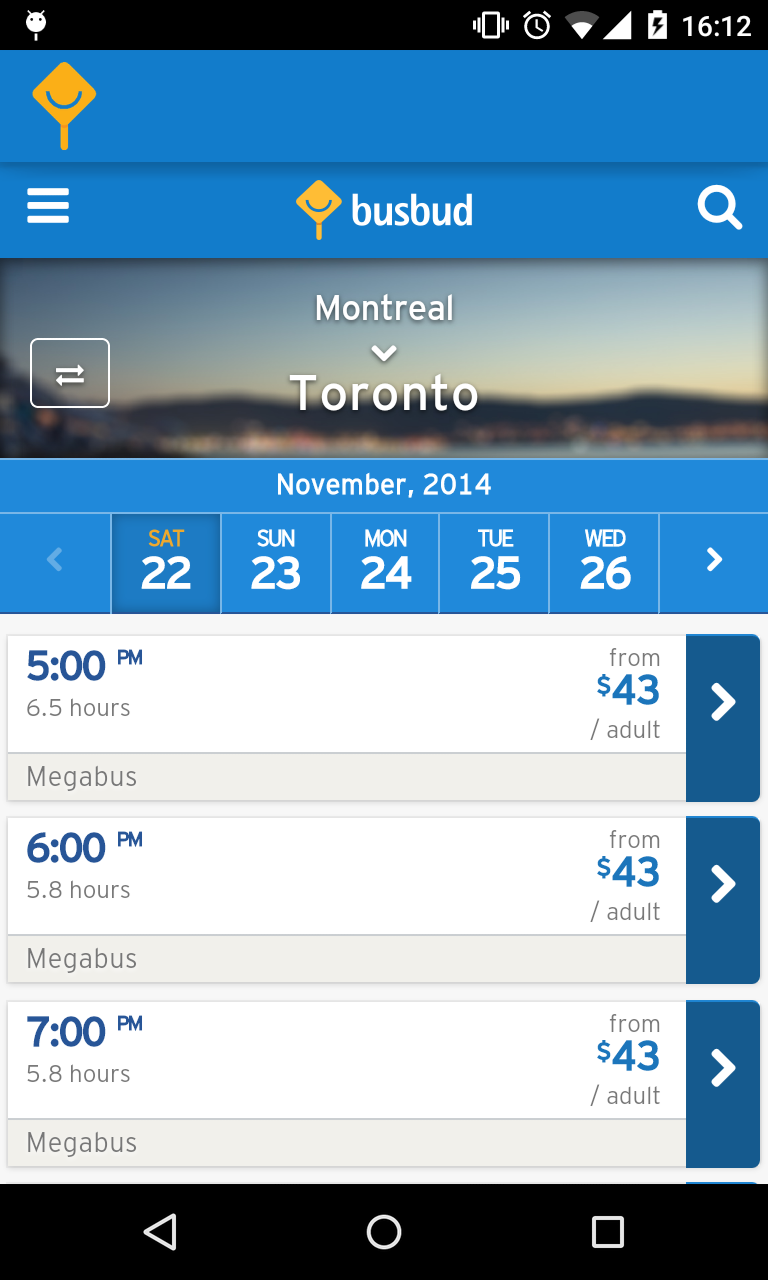
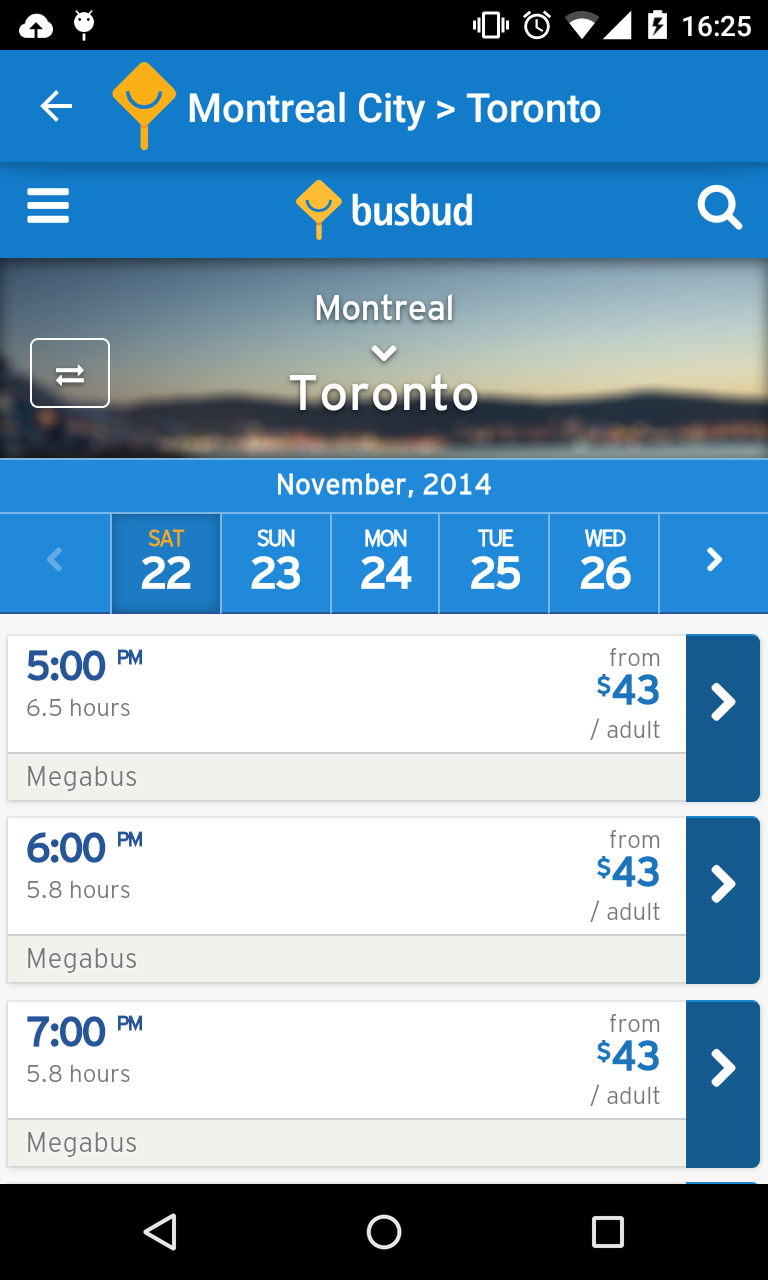
[BusBud] Improve navigation on WebView

diff --git a/app/src/main/java/jbm/busbud/util/SingleFragmentActivity.java b/app/src/main/java/jbm/busbud/util/SingleFragmentActivity.java
@@ -4,7 +4,9 @@ import android.os.Bundle;
 import android.support.v4.app.Fragment;
 import android.support.v4.app.FragmentManager;
 import android.support.v4.app.FragmentTransaction;
+import android.support.v4.app.NavUtils;
 import android.support.v7.app.ActionBarActivity;
+import android.view.MenuItem;
 
 import java.lang.reflect.Constructor;
 
@@ -27,6 +29,9 @@ public class SingleFragmentActivity extends ActionBarActivity {
         super.onCreate(savedInstanceState);
 
         setContentView(R.layout.activity_bbmain);
+
+        getSupportActionBar().setDisplayHomeAsUpEnabled(true);
+        getSupportActionBar().setDisplayShowTitleEnabled(true);
 
         if (getIntent().hasExtra(EXTRA_TITLE)) {
             setTitle(getIntent().getStringExtra(EXTRA_TITLE));
@@ -54,5 +59,15 @@ public class SingleFragmentActivity extends ActionBarActivity {
                 finish();
             }
         }
+    }
+
+    @Override
+    public boolean onOptionsItemSelected(MenuItem item) {
+        switch (item.getItemId()) {
+            case android.R.id.home:
+                finish();
+                return true;
+        }
+        return super.onOptionsItemSelected(item);
     }
 }
